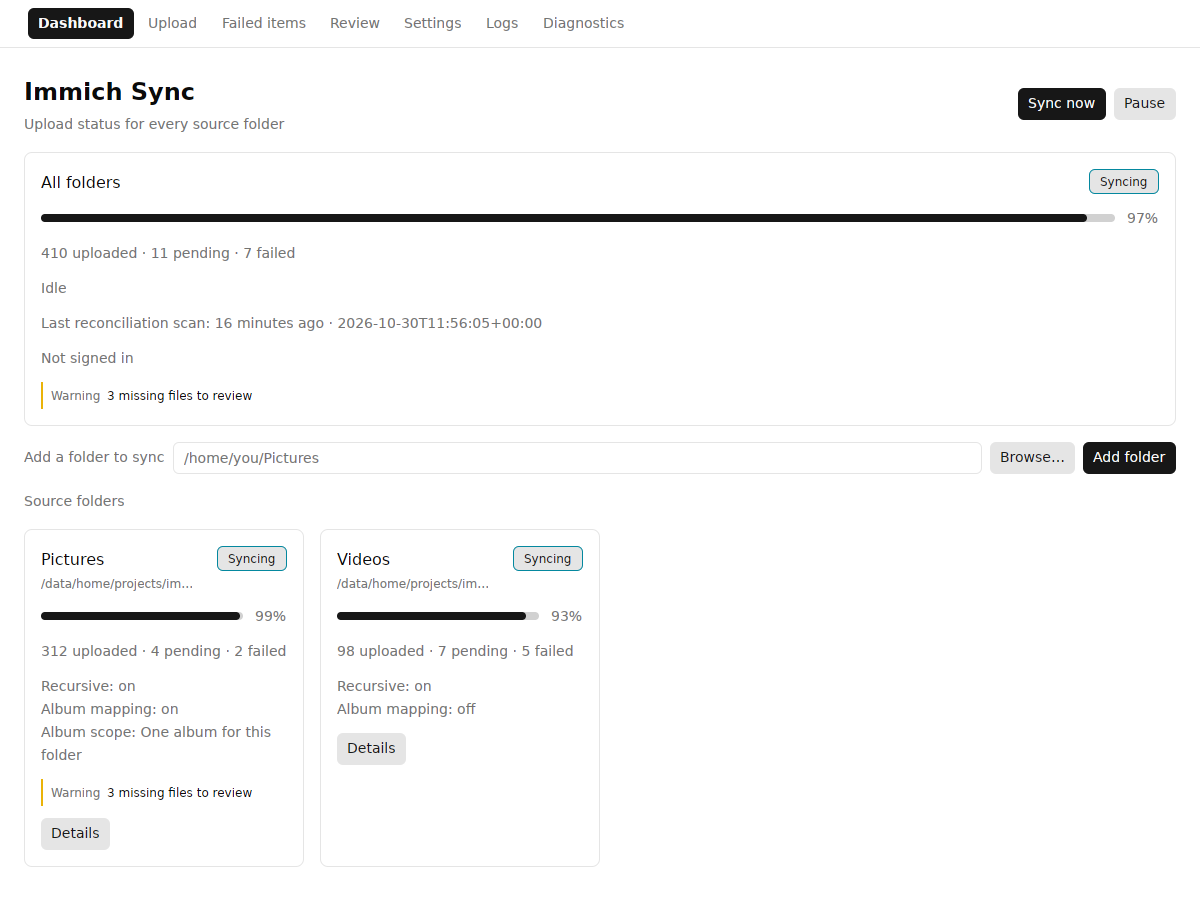
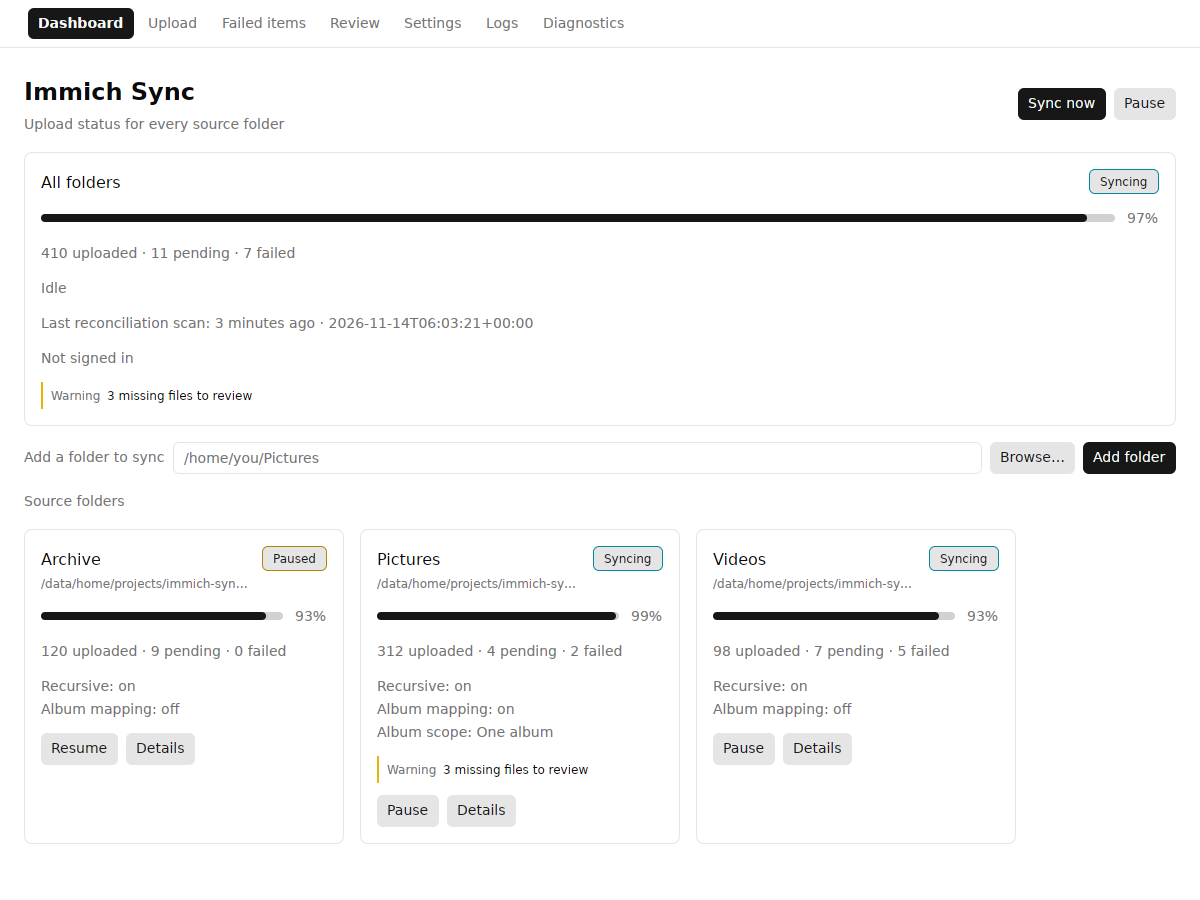
docs(screenshot): show a paused folder in the README capture (#94)
The seed keeps the two demo folders as they were and adds a third, Archive,
paused, with a settled backlog and the queue the pause holds. The new
dashboard capture shows its Paused card beside the two syncing ones, and the
global card leaves the paused folder out of its counts.

The capture was taken with the recipe in CONTRIBUTING.md under Xvfb with
lavapipe: 1200x900, 6467 colours, so the frame is not blank.

diff --git a/crates/app/tests/it/screenshot_seed.rs b/crates/app/tests/it/screenshot_seed.rs
@@ -11,6 +11,9 @@
 //! It is test-only: the product never writes these fixtures. The folders it
 //! creates under `IMMICH_SYNC_CAPTURE_ROOT` are real directories, so the
 //! dashboard's availability check passes and the cards show live counts.
+//!
+//! The third folder, `Archive`, is paused (#94), so the capture shows a paused
+//! card beside two syncing ones and a client whose global counts leave it out.
 
 use std::path::Path;
 
@@ -84,8 +87,10 @@ fn seed_capture_state() {
 
     let pictures = Path::new(&root).join("Pictures");
     let videos = Path::new(&root).join("Videos");
+    let archive = Path::new(&root).join("Archive");
     std::fs::create_dir_all(&pictures).expect("create the Pictures folder");
     std::fs::create_dir_all(&videos).expect("create the Videos folder");
+    std::fs::create_dir_all(&archive).expect("create the Archive folder");
     for (folder, album_mapping) in [(&pictures, true), (&videos, false)] {
         store
             .add_folder(&SourceFolder {
@@ -106,6 +111,16 @@ fn seed_capture_state() {
             })
             .expect("add the capture folder");
     }
+    // #94: the paused folder keeps the two demo configs as they were and adds
+    // the one state the README has no picture of yet.
+    store
+        .add_folder(&SourceFolder {
+            path: archive.display().to_string(),
+            recursive: true,
+            paused: true,
+            ..SourceFolder::default()
+        })
+        .expect("add the paused capture folder");
 
     let mut index = 0;
     // #44: the folder detail lists the assets' current versions, newest first,
@@ -179,6 +194,18 @@ fn seed_capture_state() {
             &format!("RAW_{refused}.cr3"),
             ItemState::FailedPermanent,
         );
+    }
+    // #94: the paused folder shows what it holds: a settled backlog and the
+    // queue the pause is holding. The global card leaves both out.
+    for photo in 0..120 {
+        write(
+            &archive,
+            &format!("ARCHIVE_{photo:04}.jpg"),
+            ItemState::Uploaded,
+        );
+    }
+    for held in 0..9 {
+        write(&archive, &format!("HELD_{held}.jpg"), ItemState::Pending);
     }
     // The deletion-review capture: three files that disappeared and wait for a
     // keep-or-trash decision (R5.3).

diff --git a/CONTRIBUTING.md b/CONTRIBUTING.md
@@ -136,8 +136,10 @@ those with a smaller fixture, never with a fake clock.
 ## Screenshots
 
 The dashboard image in the README is a real frame from the app, seeded with
-`crates/app/tests/it/screenshot_seed.rs`. Give the capture its own XDG directories
-so it cannot touch your real state:
+`crates/app/tests/it/screenshot_seed.rs`: Pictures (mapped, whole-folder album),
+Videos (unmapped), and Archive, which is paused (#94) so the shot shows a paused
+card beside two syncing ones. Give the capture its own XDG directories so it
+cannot touch your real state:
 
 ```sh
 export XDG_CONFIG_HOME="$PWD/.scratch/shot/config"
